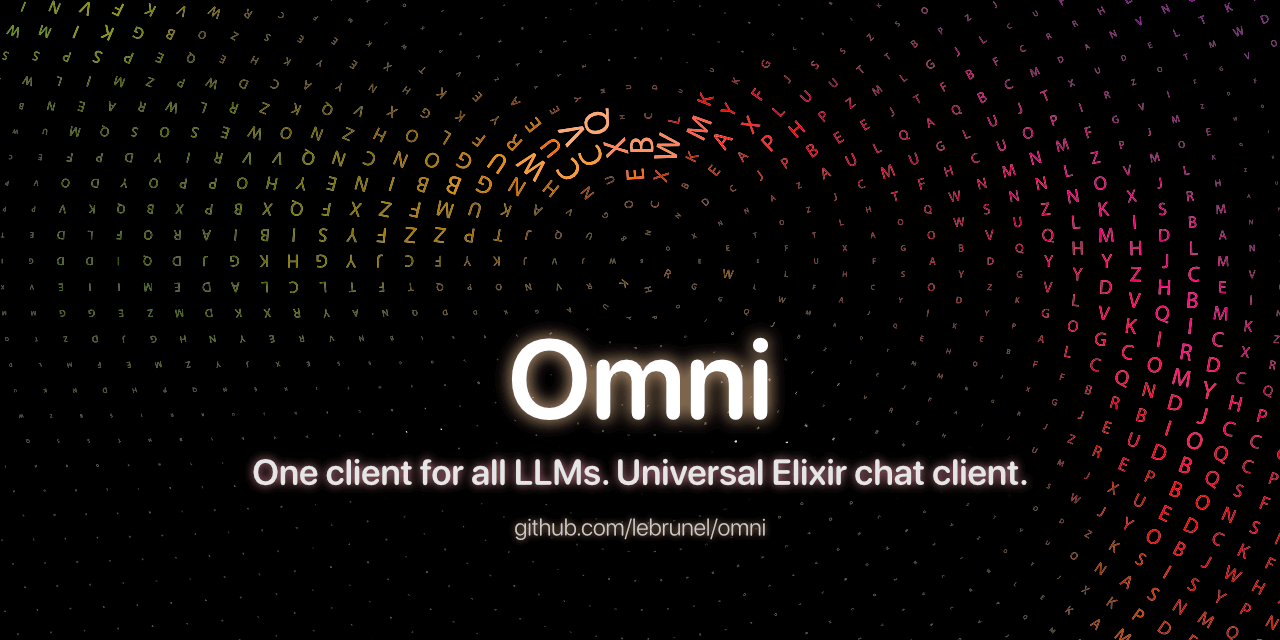
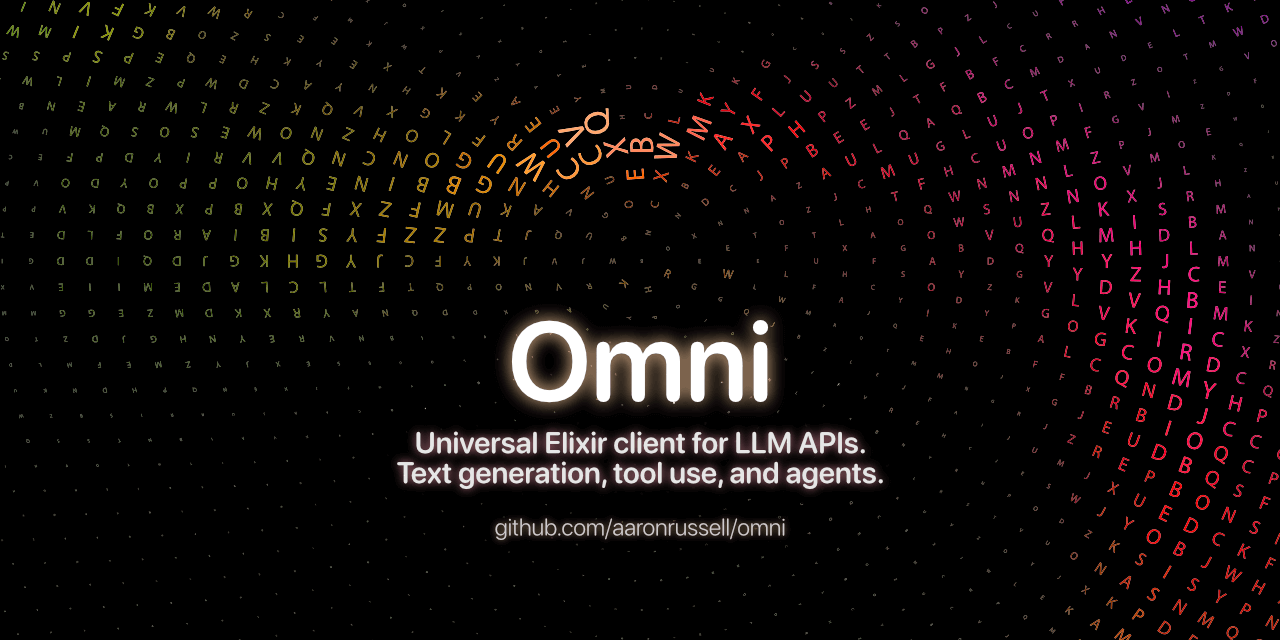
Updated poster artwork

Changed region(s): [[0.1875, 0.4688, 0.8125, 0.7812], [0.375, 0.8125, 0.625, 0.8438]]

diff --git a/README.md b/README.md
@@ -1,7 +1,13 @@
 # Omni
 
-Unified Elixir client for LLM APIs.
-Text generation, tool use, and agents - across every provider.
+![Omni](https://raw.githubusercontent.com/aaronrussell/omni/main/media/poster.png)
+
+![Hex.pm](https://img.shields.io/hexpm/v/omni?color=informational)
+![License](https://img.shields.io/github/license/aaronrussell/omni?color=informational)
+![Build Status](https://img.shields.io/github/actions/workflow/status/aaronrussell/omni/elixir.yml?branch=main)
+
+Universal Elixir client for LLM APIs.
+Text generation, tool use, and agents.
 
 ## Features
 
